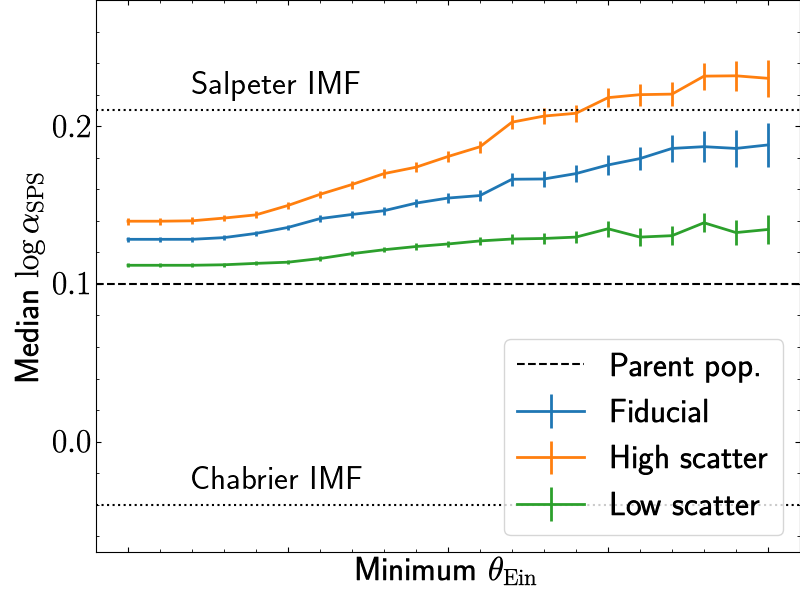
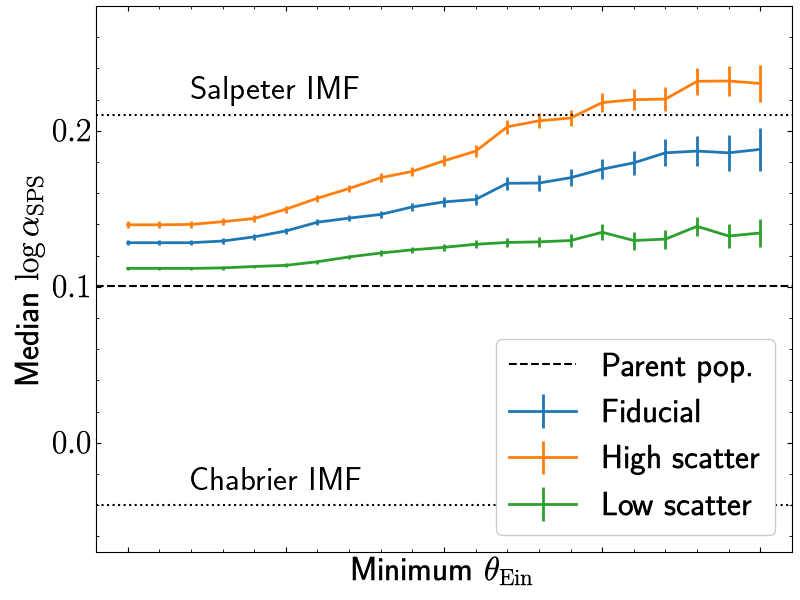
framealpha

diff --git a/lens_population/plot_lasps_bias.py b/lens_population/plot_lasps_bias.py
@@ -21,7 +21,7 @@ colseq = pylab.rcParams['axes.prop_cycle'].by_key()['color']
 
 fig, ax = pylab.subplots(1, 1, figsize=(8, 6))
 
-pylab.subplots_adjust(left=0.12, right=1.00, bottom=0.08, top=1., wspace=0., hspace=0.)
+pylab.subplots_adjust(left=0.12, right=0.99, bottom=0.08, top=0.99, wspace=0., hspace=0.)
 
 ntein = 21
 tein_arr = np.linspace(0., 2., ntein)
@@ -84,7 +84,7 @@ ax.xaxis.set_minor_locator(MultipleLocator(0.1))
 
 ax.set_xlabel('Minimum $\\theta_{\mathrm{Ein}}$', fontsize=fsize)
 
-ax.legend(loc='lower right', fontsize=fsize)
+ax.legend(loc='lower right', fontsize=fsize, framealpha=1.)
 
 pylab.savefig('../paper/lasps_bias.png')
 pylab.show()
